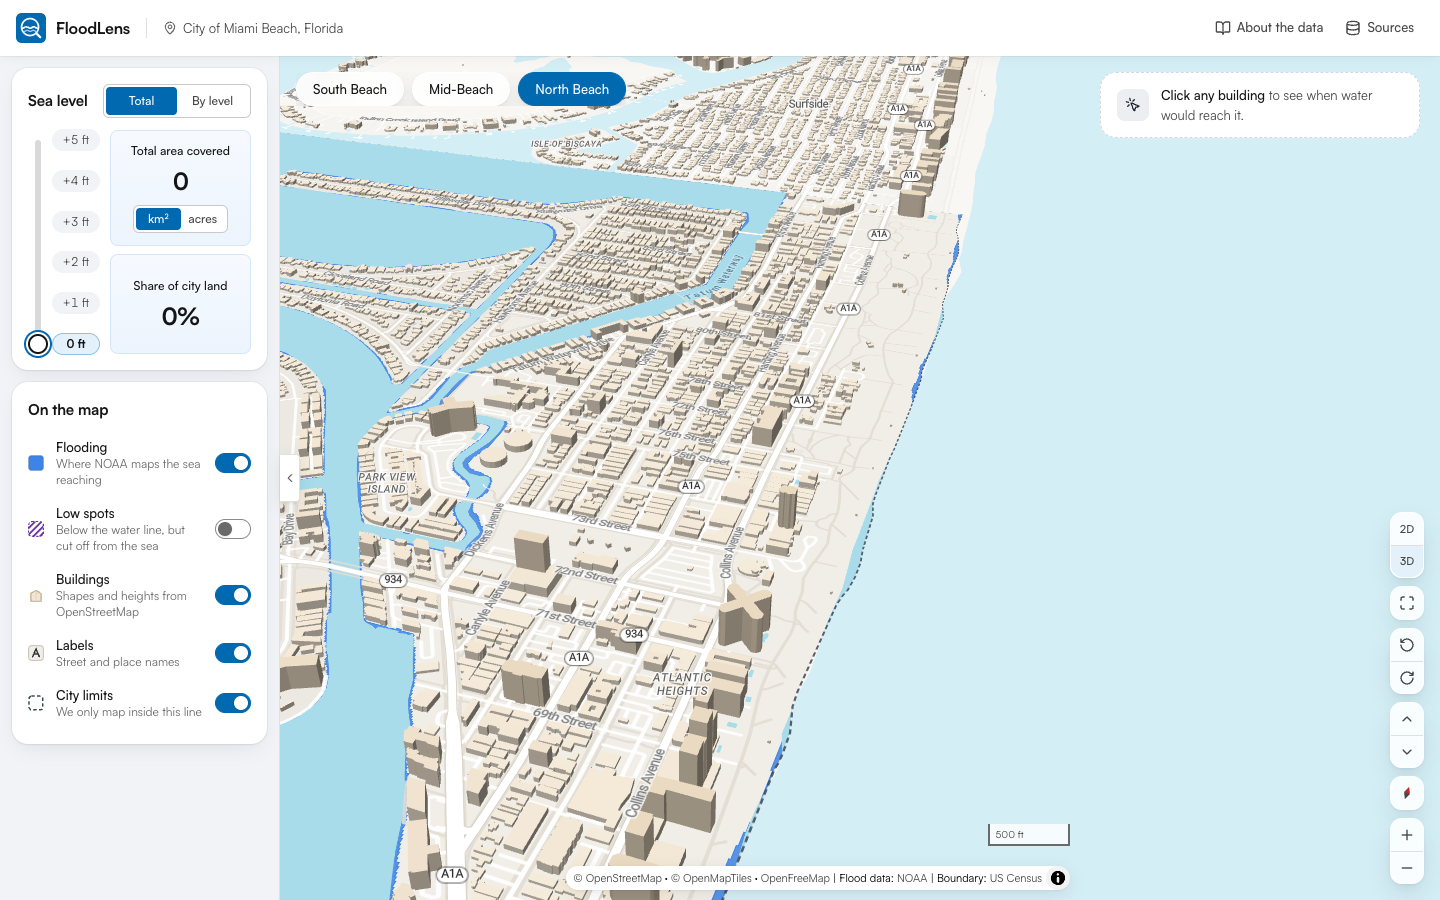
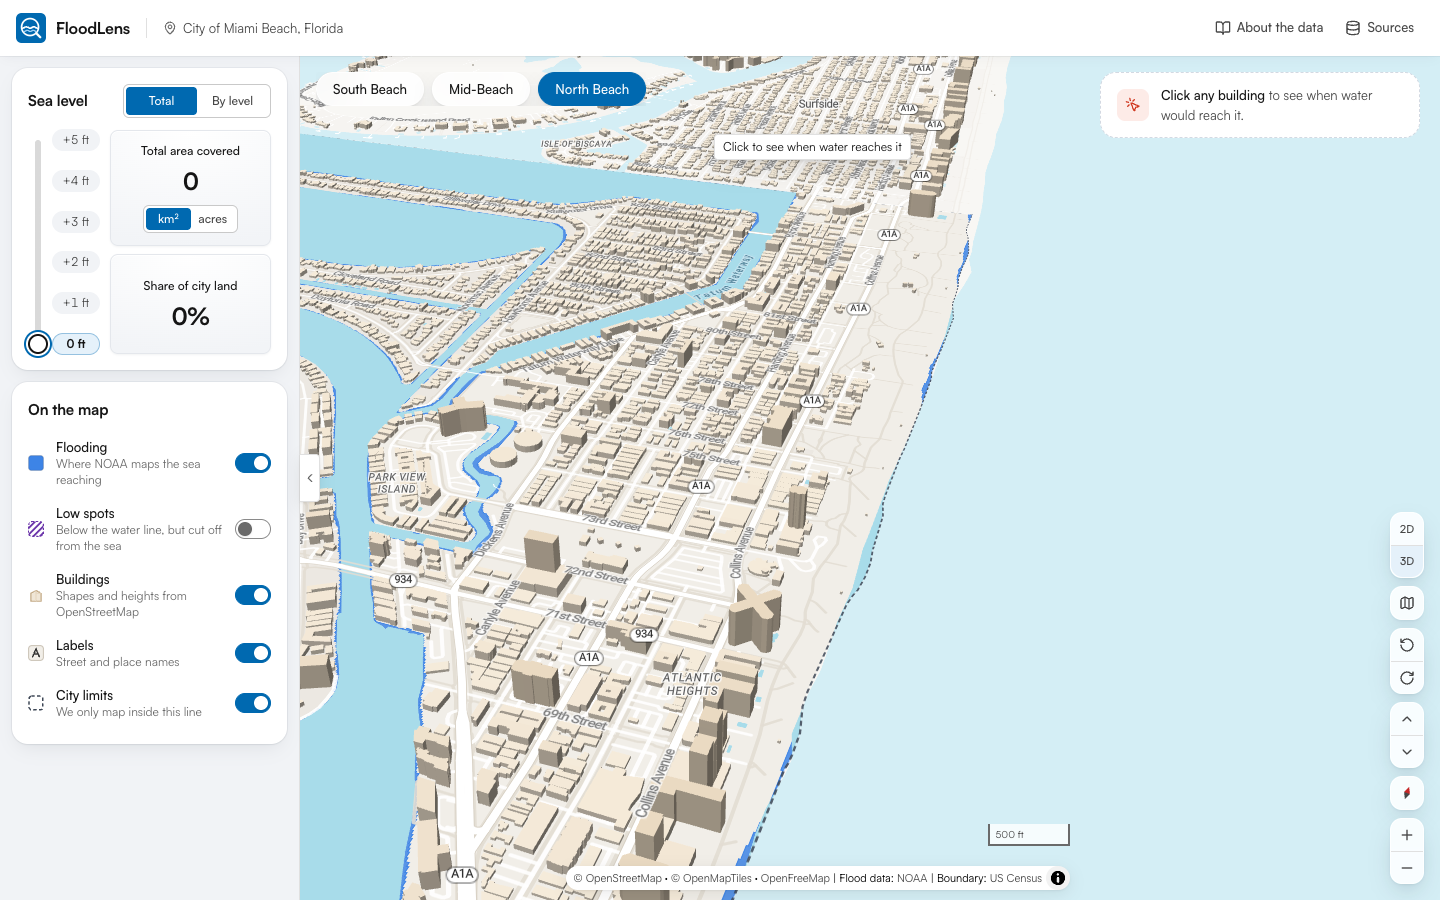
v0.42: Soft light boxes and grouped facts
- "Soft light" surface (white to cool grey, hairline, inner
  highlight) for the figure boxes and the place card's answer and
  facts boxes, replacing the pale blue gradient
- Height, Footprint and Low spot grouped in one box
- Selected building vermilion again
- Folded-map icon for Entire Miami Beach
- Left panel 300 px

107 unit tests and 19 end-to-end tests pass.

Changed region(s): [[0.0625, 0.0622, 0.7188, 1.0], [0.0938, 0.3111, 0.1562, 0.3733], [0.0312, 0.5911, 0.0938, 0.6222]]

diff --git a/src/components/insights/InspectionCard.tsx b/src/components/insights/InspectionCard.tsx
@@ -63,11 +63,11 @@ export function InspectionCard({ selection, inspection, scenarioFt, onClear }: P
 
   return (
     <section aria-labelledby="insp-title" className="card pointer-events-auto p-3 animate-slide-up">
-      {/* What and where: a 36 px tile for the place (v0.37), its charcoal matching the selection
-          on the map (v0.38; vermilion before), then the name and, under it, the coordinates with a
+      {/* What and where: a 36 px tile for the place (v0.37), its vermilion matching the selection
+          on the map (charcoal in v0.38–v0.41), then the name and, under it, the coordinates with a
           small tile of their own. */}
       <div className="flex items-start gap-2.5">
-        <span className="grid size-9 shrink-0 place-items-center rounded-[10px] bg-[#eceef1] text-[#1f2937]" aria-hidden>
+        <span className="grid size-9 shrink-0 place-items-center rounded-[10px] bg-[#fdebe7] text-[#d03a22]" aria-hidden>
           <Icon className="size-5" />
         </span>
         <div className="min-w-0 flex-1">
@@ -131,7 +131,7 @@ export function InspectionCard({ selection, inspection, scenarioFt, onClear }: P
             <div aria-live="polite">
               {/* The answer, emphasised, on the label's row (label left, value right, like the facts
                   below), with every level in context under it. A long answer wraps under the label. */}
-              <div className="mt-3 rounded-lg border border-[#d5e6fa] bg-gradient-to-b from-[#f6faff] to-[#ecf4fd] px-3 pt-2 pb-1.5">
+              <div className="surface-soft mt-3 rounded-lg px-3 pt-2 pb-1.5">
                 <div className="flex flex-wrap items-baseline justify-between gap-x-3">
                   <p className="text-[14px] leading-5 font-medium text-fg">{label}</p>
                   <p className="text-[24px] leading-8 font-bold tracking-[-0.03em] text-fg tabular">{answer}</p>
@@ -144,7 +144,8 @@ export function InspectionCard({ selection, inspection, scenarioFt, onClear }: P
               {/* Facts in one column. Height and footprint only for a building (v0.34): a spot has
                   neither, so it no longer shows empty rows. Icons in tinted tiles (v0.37): a ruler, a
                   plot of land for the footprint, and a hollow holding water for a low spot (v0.38). */}
-              <dl className="mt-1 divide-y divide-line">
+              {/* Grouped in one box (v0.42; straight on the card before), the same surface as the answer. */}
+              <dl className="surface-soft mt-2.5 divide-y divide-line rounded-lg px-3">
                 {building && (
                   <>
                     <Row

diff --git a/src/components/controls/SubmergedArea.tsx b/src/components/controls/SubmergedArea.tsx
@@ -15,16 +15,16 @@ interface Props {
 
 /**
  * One figure in a box, centred: label, then the number at the agreed stat size (24 px bold), then
- * anything under it. The box matches the place card's "Water reaches at" box, a faint blue
- * gradient with a hairline (v0.41; a flat grey-blue fill in v0.39–v0.40), so the two panels read
- * as one design. The elements have room to breathe (8 px label to number, 10 px number to switch).
+ * anything under it. The box shares the "Soft light" surface (`.surface-soft`, v0.42) with the
+ * place card's answer and facts, so the two panels read as one design (v0.41 had a pale blue
+ * gradient; v0.39–v0.40 a flat grey-blue fill). The elements have room to breathe (8 px label to number, 10 px number to switch).
  * Both boxes take an equal share of the column (basis 0), so they're the same height whenever
  * there's room; on the shortest windows the second gives way first. They tighten on short windows
  * (the `short` variant), so the panel still fits without scrolling.
  */
 function Figure({ label, value, children }: { label: string; value: string; children?: ReactNode }) {
   return (
-    <div className="flex flex-1 basis-0 flex-col items-center justify-center rounded-lg border border-[#d5e6fa] bg-gradient-to-b from-[#f6faff] to-[#ecf4fd] px-2 py-3 text-center short:py-0.5">
+    <div className="flex flex-1 basis-0 flex-col items-center justify-center surface-soft rounded-lg px-2 py-3 text-center short:py-0.5">
       <p className="text-[12px] leading-4 font-medium whitespace-nowrap text-fg short:text-[11px] short:leading-[14px]">{label}</p>
       <p className="mt-2 text-[24px] leading-7 font-bold tracking-[-0.03em] text-fg tabular short:mt-1 short:text-[20px] short:leading-6">{value}</p>
       {children}

diff --git a/src/components/map/MapControls.tsx b/src/components/map/MapControls.tsx
@@ -1,4 +1,4 @@
-import { ChevronDown, ChevronUp, Maximize, Minus, Plus, RotateCcw, RotateCw } from 'lucide-react'
+import { ChevronDown, ChevronUp, Map as MapIcon, Minus, Plus, RotateCcw, RotateCw } from 'lucide-react'
 import type { ReactNode } from 'react'
 import { useMediaQuery } from '../../hooks/useMediaQuery'
 import type { ViewMode } from '../../state/reducer'
@@ -98,10 +98,10 @@ export function MapControls({ viewMode, bearing, pitch, zoom, onZoomIn, onZoomOu
   )
   const home = (
     <Group label="Default view">
-      {/* Frame corners, the usual "fit to view" symbol (v0.40): the owner found the house
-          (v0.34–v0.39) misleading, since the button fits the whole city rather than going home. */}
+      {/* A folded map, "the whole map" (v0.42, the owner's pick). Frame corners in v0.40–v0.41;
+          the house (v0.34–v0.39) was misleading, since the button fits the city rather than going home. */}
       <Btn label="Entire Miami Beach" onClick={onShowAll}>
-        <Maximize className="size-4" aria-hidden />
+        <MapIcon className="size-4" aria-hidden />
       </Btn>
     </Group>
   )

diff --git a/tests/e2e/screenshots.spec.ts b/tests/e2e/screenshots.spec.ts
@@ -46,7 +46,7 @@ test.describe('screenshots', () => {
     await page.getByRole('button', { name: '3D view' }).click()
     await page.getByRole('navigation', { name: 'Go to area' }).getByRole('button', { name: 'South Beach' }).click()
     await page.waitForTimeout(5000)
-    await page.mouse.click(622, 470)
+    await page.mouse.click(632, 470)
     await page.mouse.move(700, 120)
     await page.waitForTimeout(2500)
     await page.screenshot({ path: `${OUT}/08-south-beach-building-card.png` })
@@ -56,7 +56,7 @@ test.describe('screenshots', () => {
     await page.keyboard.press('End')
     await page.getByRole('navigation', { name: 'Go to area' }).getByRole('button', { name: 'North Beach' }).click()
     await page.waitForTimeout(5000)
-    await page.mouse.click(868, 346)
+    await page.mouse.click(878, 346)
     await page.mouse.move(700, 120)
     await page.waitForTimeout(2500)
     await page.screenshot({ path: `${OUT}/09-north-beach-not-reached.png` })

diff --git a/src/lib/theme.ts b/src/lib/theme.ts
@@ -37,12 +37,12 @@ export const colors = {
   // data
   lowLying: '#6b35aa',
   accent: '#0069b0',
-  // Charcoal (v0.38): the warm Individual ramp runs through vermilion, so the selection moved
-  // to the one colour far from everything (worst-case OKLab ΔE 19 against every flood band in
-  // both modes, water, buildings, parks, low spots and land, for normal and colour-blind
-  // vision). Vermilion `#e8452c` (v0.20–v0.37) would have scored 0 for deuteranopia.
-  selection: '#1f2937',
-  selectionLine: '#000000',
+  // Vermilion again (v0.42, the owner's pick; v0.20–v0.37 too). Against the Plasma By level
+  // ramp, water, buildings, parks, low spots and land its worst-case OKLab ΔE is 10 for normal
+  // vision and 9 for deuteranopia. Charcoal `#1f2937` (v0.38–v0.41) was chosen while the ramp
+  // was orange; the owner found it dull.
+  selection: '#e8452c',
+  selectionLine: '#9e2410',
   studyArea: '#3d4655',
   mask: '#ffffff',
 

diff --git a/tests/e2e/app.spec.ts b/tests/e2e/app.spec.ts
@@ -171,8 +171,8 @@ test.describe('FloodLens — core flows', () => {
     // The view reset lives only in the map — no duplicate in the header or panels.
     await expect(page.getByRole('banner').getByRole('button', { name: /reset|show all/i })).toHaveCount(0)
     await expect(page.getByRole('button', { name: 'Entire Miami Beach' })).toHaveCount(1)
-    // Frame corners, the "fit to view" symbol (v0.40; a house in v0.34–v0.39).
-    await expect(page.getByRole('button', { name: 'Entire Miami Beach' }).locator('svg')).toHaveClass(/lucide-maximize/)
+    // A folded map (v0.42; frame corners in v0.40–v0.41, a house in v0.34–v0.39).
+    await expect(page.getByRole('button', { name: 'Entire Miami Beach' }).locator('svg')).toHaveClass(/(^|\s)lucide-map(\s|$)/)
   })
 
   test('the map controls sit in one column in the bottom-right corner; turn and tilt only in 3D (v0.37)', async ({ page }) => {

diff --git a/src/styles/index.css b/src/styles/index.css
@@ -108,6 +108,16 @@
     background: var(--color-surface);
     box-shadow: var(--shadow-card);
   }
+  /* "Soft light" (v0.42): white fading to a cool grey from the top, a hairline and a faint inner
+     highlight. The surface for the boxes inside cards: the sea-level figures, the place card's
+     answer and its facts. The owner found v0.41's pale blue gradient a cliché. */
+  .surface-soft {
+    background: radial-gradient(120% 100% at 50% 0%, #ffffff 0%, #f2f4f7 100%);
+    border: 1px solid #e4e7ec;
+    box-shadow:
+      inset 0 1px 0 #ffffff,
+      0 1px 2px rgb(16 24 40 / 0.05);
+  }
   /* Frosted controls over the map: the map shows through, softened (v0.25). 88% white keeps
      accent text at 4.5:1 even over the darkest flood blue; secondary text is a step darker
      here for the same reason. */

diff --git a/src/components/controls/SubmergedArea.test.tsx b/src/components/controls/SubmergedArea.test.tsx
@@ -46,12 +46,12 @@ describe('<SubmergedArea>', () => {
     expect(boxes(container)).toEqual(['New area covered1.80km²acres', 'Share of city land18%'])
   })
 
-  it('puts each figure in its own centred box, styled like the answer box, the share as large as the area (v0.39, v0.41)', () => {
+  it('puts each figure in its own centred Soft light box, the share as large as the area (v0.39, v0.42)', () => {
     render(<Harness ft={2} mode="simple" />)
     for (const n of ['0.50', '5%']) {
       const value = screen.getByText(n)
       expect(value).toHaveClass('text-[24px]', 'font-bold')
-      expect(value.parentElement).toHaveClass('text-center', 'border-[#d5e6fa]', 'from-[#f6faff]', 'basis-0')
+      expect(value.parentElement).toHaveClass('text-center', 'surface-soft', 'basis-0')
     }
   })
 

diff --git a/src/components/insights/InspectionCard.test.tsx b/src/components/insights/InspectionCard.test.tsx
@@ -85,8 +85,9 @@ describe('<InspectionCard>', () => {
     const icon = (label: string) => screen.getAllByRole('term').find((t) => t.textContent === label)!.querySelector('svg')!
     for (const label of ['Height', 'Footprint', 'Low spot']) expect(icon(label).parentElement).toHaveClass('size-7', 'rounded-lg')
     expect(icon('Low spot')).toHaveClass('lucide-low-spot')
-    // Values in semibold (v0.41).
+    // Values in semibold (v0.41), the three facts grouped in one Soft light box (v0.42).
     for (const d of screen.getAllByRole('definition')) expect(d).toHaveClass('font-semibold')
+    expect(screen.getAllByRole('term')[0].closest('dl')).toHaveClass('surface-soft')
   })
 
   it('explains places outside the city boundary instead of showing results', () => {

diff --git a/src/components/insights/InsightPanel.tsx b/src/components/insights/InsightPanel.tsx
@@ -36,7 +36,7 @@ export function InsightPanel({ manifestState, inspection }: Props) {
     />
   ) : manifestState.status === 'ready' ? (
     <div className="pointer-events-auto flex items-center gap-3 rounded-2xl border border-dashed border-[#d3d9e2] bg-surface px-4 py-3">
-      <span className="grid size-8 shrink-0 place-items-center rounded-lg bg-[#eceef1] text-[#1f2937]" aria-hidden>
+      <span className="grid size-8 shrink-0 place-items-center rounded-lg bg-[#fdebe7] text-[#d03a22]" aria-hidden>
         <MousePointerClick className="size-4" />
       </span>
       <p className="t-body">

diff --git a/src/components/ui/Swatch.tsx b/src/components/ui/Swatch.tsx
@@ -61,7 +61,7 @@ export function Swatch({ kind, size = 14, mode = 'detailed' }: { kind: SwatchKin
     case 'selection':
       return (
         <svg {...common} viewBox="0 0 14 14">
-          <circle cx="7" cy="7" r="5.2" fill="rgba(31,41,55,0.16)" stroke={colors.selection} strokeWidth="1.6" />
+          <circle cx="7" cy="7" r="5.2" fill="rgba(232,69,44,0.16)" stroke={colors.selection} strokeWidth="1.6" />
           <circle cx="7" cy="7" r="2.2" fill={colors.selectionLine} stroke="#fff" strokeWidth="0.8" />
         </svg>
       )

diff --git a/src/App.tsx b/src/App.tsx
@@ -49,7 +49,7 @@ export default function App() {
       <div className="relative flex min-h-0 flex-1">
         {/* ---------------- Left: sea level + layers */}
         {controlsOpen && (
-          <aside id="control-panel" aria-label="Sea level and layers" className="panel w-[280px] shrink-0 border-r">
+          <aside id="control-panel" aria-label="Sea level and layers" className="panel w-[300px] shrink-0 border-r">
             <ControlPanel manifest={manifest} />
           </aside>
         )}
